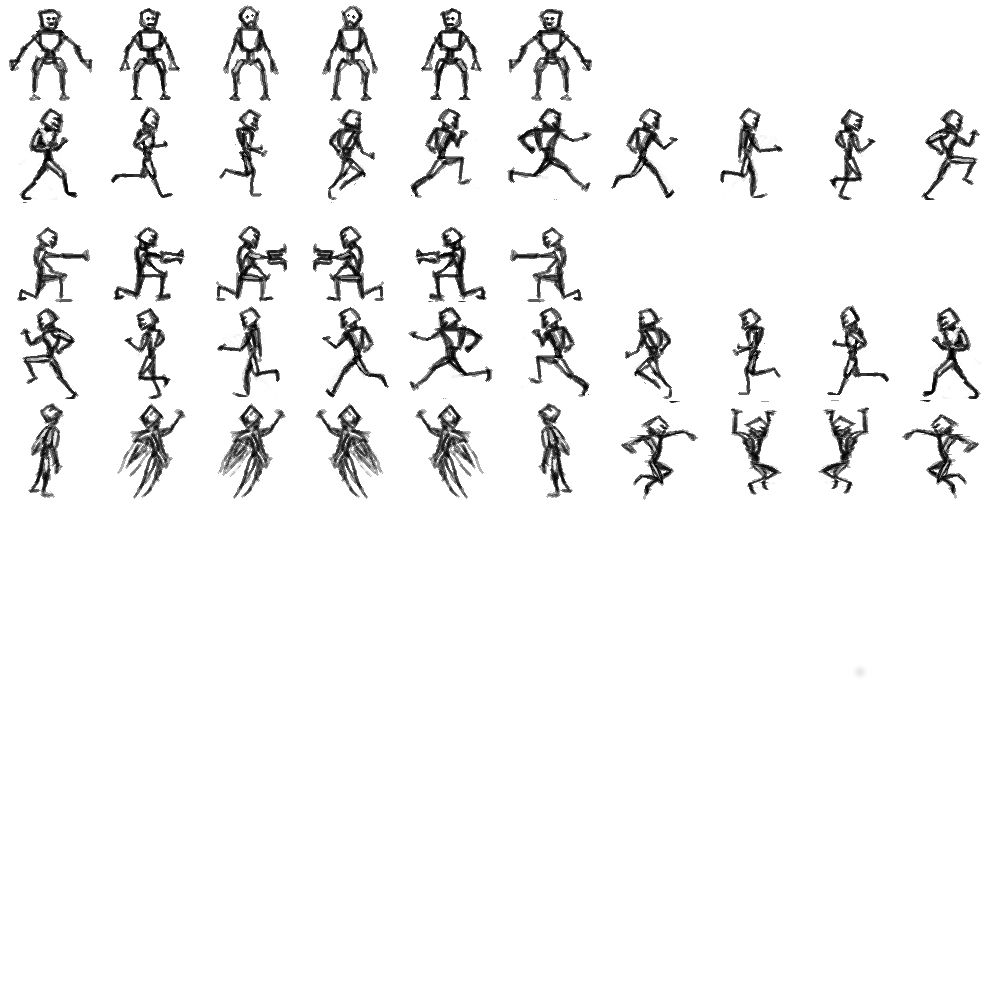
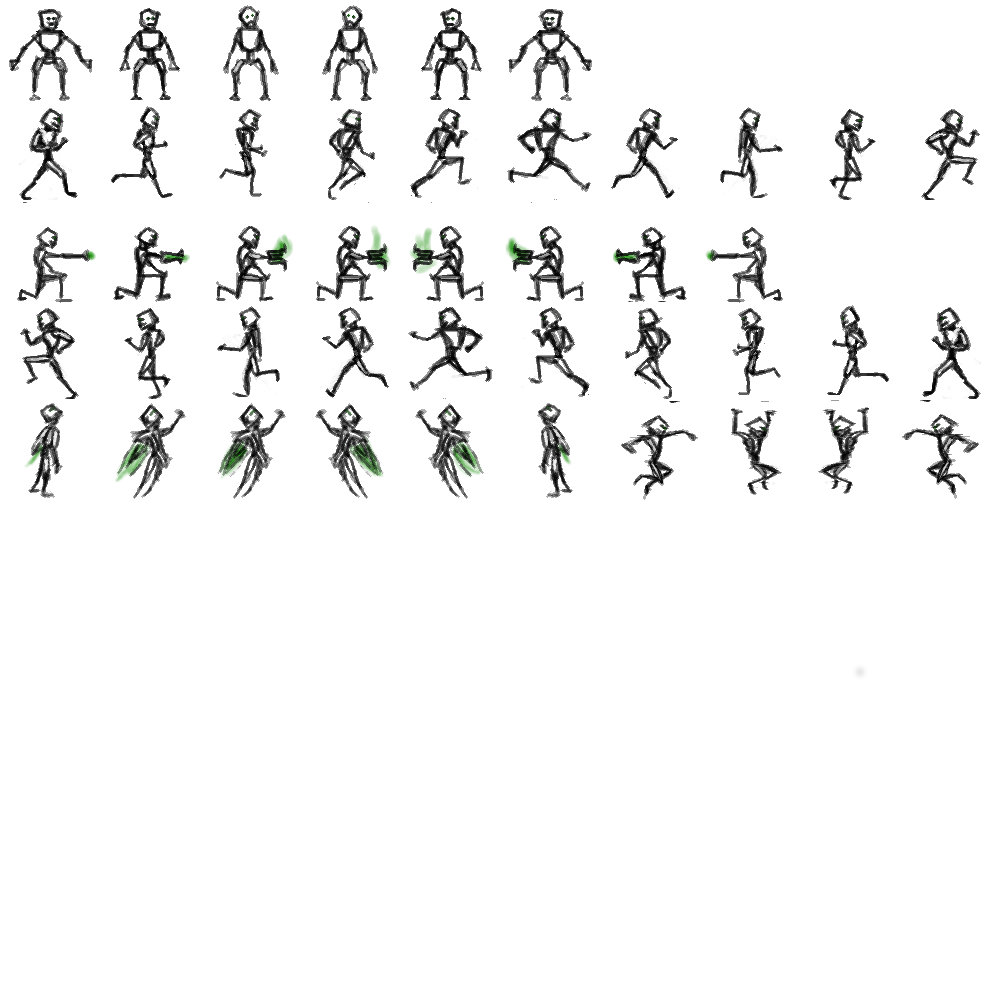
Last update for the night, mostly art iprovements

diff --git a/shooter.js b/shooter.js
@@ -79,7 +79,7 @@ function O_robot(name, html_id){
 	var counter = 0;
 	var action_right = {
 		'standing': {'y': 0 , 'x': [0,1,2,1]},
-		'shooting': {'y': 2 , 'x': [0,1,2]},
+		'shooting': {'y': 2 , 'x': [0,1,2,3,2,3]},
 		'running': {'y': 1 , 'x': [0,1,2,3,4,5,6,7,8,9]},
 		'jumping': {'y': 4 , 'x': [0,1,2,1,2,1,2,1,2,1,2]},
 		'falling': {'y': 4, 'x':[6,6,7,7,6,6,7,7,6,7]}
@@ -87,7 +87,7 @@ function O_robot(name, html_id){
 	};
 	var action_left = {
 		'standing': {'y': 0 , 'x': [3,4,5,4]},
-		'shooting': {'y': 2 , 'x': [5,4,3]},
+		'shooting': {'y': 2 , 'x': [7,6,5,4,5,4]},
 		'running': {'y': 3 , 'x': [9,8,7,6,5,4,3,2,1,0]},
 		'jumping': {'y': 4 , 'x': [5,4,3,4,3,4,3,4,3,4,3]},
 		'falling': {'y': 4, 'x':[8,8,9,9,8,8,9,9,8,9]}
@@ -165,7 +165,7 @@ function O_robot(name, html_id){
 				
 			}
 		}else if(action == 'shooting'){
-			if(counter > 2){
+			if(counter > 6){
 				counter=2;
 				
 			}
@@ -244,7 +244,7 @@ function O_robot(name, html_id){
 		}else{
 			this.bx_pos -= 20;
 		}
-		if(this.bx_pos > 900 || this.bx_pos < 0){
+		if(this.bx_pos > 950 || this.bx_pos < 25){
 			this.b_action = 'death';
 		}
 	};
